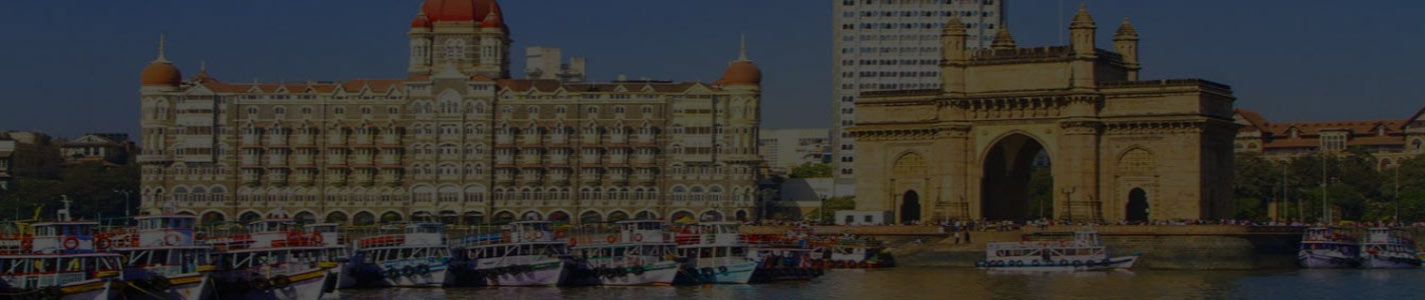
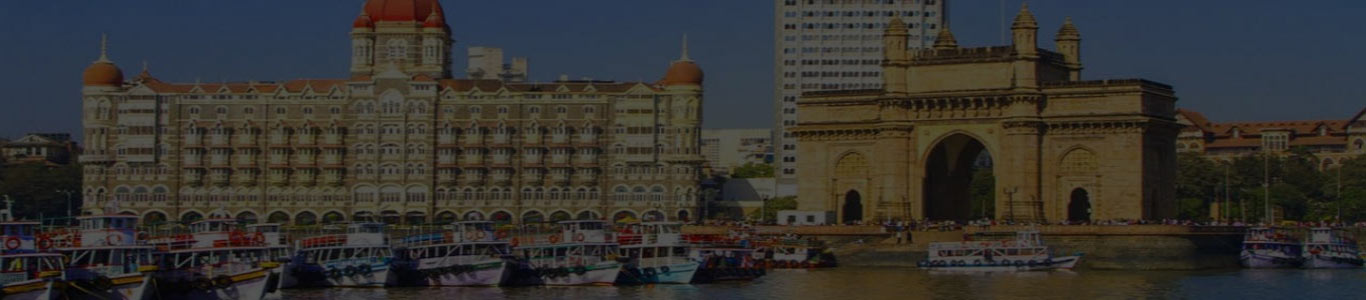
modificaciones

Changed region(s): [[0.0, 0.0, 0.9531, 1.0], [0.8917, 0.78, 0.9531, 0.87], [0.8917, 0.51, 0.9224, 0.54]]

diff --git a/Styles/style.css b/Styles/style.css
@@ -11,12 +11,12 @@ body{
     flex-direction: column;
 }
 .contenido{
-    width: 1425px;
+    width: 1366px;
 }
 
 /*--Header--------------------------------------------------------------------------------------------------------*/
 .header-index, .header-turismo, .header-info{
-    width: 1425px;
+    width: 1366px;
     height: 450px;
     background-image: url(../imagenes/portada-home.jpg);
     background-repeat: no-repeat;
@@ -29,8 +29,8 @@ body{
     flex-direction: column;
     margin-bottom: 50px;
 }
-.header-contacto{
-    width: 1425px;
+.header-contacto, .header-gracias{
+    width: 1366px;
     height: 450px;
     background-image: url(../imagenes/portada-contacto.jpg);
     background-repeat: no-repeat;
@@ -115,10 +115,10 @@ h3{
     padding-bottom: 20px;
     text-align: center;
 } */
-/* h2{
+h2{
     font-size: 25px;
     margin-top: 50px;
-} */
+}
 
 h3{
     font-size: 18px;
@@ -157,7 +157,7 @@ p{
     align-items: center;
     flex-direction: column;
     background-color: #ececec;
-    width: 1425px;
+    width: 1366px;
     border-radius: 100px;
     padding: 30px;
 }
@@ -206,7 +206,7 @@ p{
 .arte{
     background-image: url("../imagenes/arte-cultura.jpg");
     background-repeat: no-repeat;
-    width: 1425px;
+    width: 1366px;
     height: 300px;
     margin: 10px;
     border-radius: 10px;
@@ -218,7 +218,7 @@ p{
 }
 .parque-nacional{
     background-image: url("../imagenes/parques.jpg");
-    width: 1425px;
+    width: 1366px;
     height: 300px;
     margin: 10px;
     background-repeat: no-repeat;
@@ -232,7 +232,7 @@ p{
 .aire-libre{
     background-image: url("../imagenes/airelibre.jpg");
     background-repeat: no-repeat;
-    width: 1425px;
+    width: 1366px;
     height: 300px;
     margin: 10px;
     border-radius: 10px;
@@ -241,7 +241,7 @@ p{
     text-align: left;
 }
 .opiniones{
-    width: 1425px;
+    width: 1366px;
     display: flex;
     flex-direction: column;
     background-color: #ececec;
@@ -256,8 +256,8 @@ p{
 }
 .puntuaciones{
     border-right: 2px solid black;
-    width: 450px;
-    height: 225px;
+    width: 400px;
+    height: 248px;
 }
 .row{
     display: flex;
@@ -302,7 +302,7 @@ p{
     padding: 5px 0px 5px;
     font-size: 15px;
     text-align: start;
-    margin-right: -10px;
+    margin-right: -60px;
 }
 /* .servicios p:first-child, .personal p:first-child, .ubicacion p:first-child{
     padding-right: 360px;
@@ -429,7 +429,7 @@ p{
     flex-direction: column;
     margin-top: 30px;
 }
-.main-contacto h1 {
+.main-contacto h1, .gracias h1{
     font-family: 'Montserrat', sans-serif;
     font-size: 32px;
     font-weight: 700;
@@ -451,12 +451,14 @@ p{
     border-radius: 20px;
 }
 .div-contenido{
-    width: 400px;
+    background-image: url(../imagenes/amanecer.jpg); 
+    width: 320px;
+    height: 270px;
     display: flex;
     justify-content: flex-start;
     align-items: flex-start;
     flex-direction: column;
-    margin-top: 10px;
+    margin-right: 300px;
 }
 .div-contenido h2{
     font-size: 25px;
@@ -678,6 +680,7 @@ section ol li{
  
 .eventos h3, .sitios-turismo h3{
     margin-top: 10px;
+    margin-bottom: 20px;
     color: rgba(9, 9, 156, 0.836);
     font-size: 25px;
 }
@@ -802,6 +805,18 @@ section ol li{
     font-size: 20px;
 }
 
+/* GRACIAS ----------------------------------------------------------------------------------------------------------------------*/
+.gracias h1{
+    margin: 30px 0 10px -460px;
+}
+.gracias p{
+    font-family: 'Montserrat', sans-serif;
+    font-size: 18px;
+    align-items: center;
+    width: 100%;
+    margin-right: 0px;
+}
+
 /* FOOTER -----------------------------------------------------------------------------------------------------------------------*/
 footer{
     background-color: black;
@@ -822,3 +837,5 @@ footer div ul li{
     list-style: none;
     padding-left: 10px;
 }
+
+/* MOBILE ------------------------------------------------------------------------------------------------------------------------*/

diff --git a/gracias.html b/gracias.html
@@ -1,0 +1,55 @@
+<!DOCTYPE html>
+<html lang="es">
+<head>
+    <meta charset="UTF-8">
+    <meta http-equiv="X-UA-Compatible" content="IE=edge">
+    <meta name="viewport" content="width=device-width, initial-scale=1.0">
+    <link rel="stylesheet" href="Styles/style.css"
+        media="screen and (max-width: 480px)"/>/>
+    <link rel="preconnect" href="https://fonts.googleapis.com">
+    <link rel="preconnect" href="https://fonts.gstatic.com" crossorigin>
+    <link href="https://fonts.googleapis.com/css2?family=Petemoss&display=swap" rel="stylesheet">
+    <link href="https://fonts.google.com/specimen/Montserrat" rel="stylesheet">
+
+    <title>Reserva</title>
+
+</head>
+<body>
+    <header class="header-gracias">
+        <nav>
+            <ul class="navegacion">
+                <li><a href ="index.html">Inicio</a></li>
+                <li><a href ="turismo.html">Turismo</a></li>
+                <li><a href ="info.html">Información</a></li>
+                <li><a href ="contacto.html">Contacto</a></li>
+            </ul>
+        </nav>
+    </header>
+
+    <div class="gracias">
+        <h1 id="main-titulo">¡¡Gracias por tu Reserva!!</h1>
+        <p>Corroborá tu casilla de correo electrónico.<br/> En 10 minutos te llegará el cógido QR para que puedas acceder a tu tour el día de la fecha reservada.</p>
+    </div>
+
+    <h2>Recordá que nos encontrás acá:</h2>
+        <iframe class="mapa" src="https://www.google.com/maps/embed?pb=!1m18!1m12!1m3!1d10186.51822802736!2d78.03874244895978!3d27.161184535144624!2m3!1f0!2f0!3f0!3m2!1i1024!2i768!4f13.1!3m3!1m2!1s0x39743fd96899c287%3A0xcaf0de5d150bed06!2sTravel%20Bureau!5e0!3m2!1ses!2sar!4v1637258938357!5m2!1ses!2sar" width="600" height="450" style="border:0;" allowfullscreen="" loading="lazy"></iframe>
+
+    <footer>
+        <div class="nosotros">
+            <div id="lucas">
+                <p class="nombre">Lucas Barria</p>
+            </div>
+        
+            <div id="aldana">
+                <p class="nombre">Aldana Ailin Fernández Gallardo</p>
+            </div>
+        </div>
+
+        <div id="datos">
+            <p class="materia">Maquetado y Desarrollo Web</p>
+            <p class="docente">Mabel García</p>
+            <p class="sitio">Este sitio es una entrega para el TP del primer cuatrimestre 2021 de la Escuela Da Vinci</p>
+        </div>
+    </footer>
+</body>
+</html>

diff --git a/contacto.html b/contacto.html
@@ -26,13 +26,11 @@
         <div class="contenido">  
             <main class="main-contacto">
                 <div>
-                    <h1 id= "main-titulo">Tours más visitados</h1>
+                    <h1>Tours más visitados</h1>
                     <div class="tarjetas-contacto">
                         <div class="div-contenido">
-                             <img src="imagenes/amanecer.jpg" alt="Taj Mahal en pleno Atardecer"/> <!--NO ME TOMA FOTO-->
-                            <h2>Ver el amanecer o puesta de sol en el Taj Mahal</h2>
-                            <p>Desde: Agra, Uttar Pradesh 282001, India<br/>Salida: Todos los días excepto viernes.</p>  
-                            <img src="imagenes/reloj.jpg" alt="Reloj"/><p><span class="siete">7 hrs</span><br/>Ver el Taj Mahal de una forma diferente es una de las mejores cosas que hacer en India.</p>                        
+                            <h2>City Tour por Agra</h2>
+                            <p>Ubicación: Agra, Uttar Pradesh 282001, India.<br/>Salida: Todos los días excepto viernes.<br/>Te recogeremos del hotel y te llevaremos a Agra, recorremos sus mejores mercados y el famoso Taj Mahal</p>
                         </div>
                         <div class="div-gris">
                             <p>$8.160 ARS</p>
@@ -42,7 +40,7 @@
                 </div>
 
 
-                <form id="form" action="http://recursos.grodriguez.com.ar/FORM/" method="post" enctype="multipart/form-data">
+                <form id="form" action="gracias.html" method="post" enctype="multipart/form-data">
                 <div class="form">
                     <div class="nombre">
                         <label for="nombre">Nombre:*</label>
@@ -96,7 +94,7 @@
 
                     <div class="contenedorfecha">
                         <label for="fecha">Ingrese el día*</label>
-                        <input type="date" name="fecha" min="2021-12-10" max="2023-11-30" id="fecha" required/>
+                        <input type="date" name="fecha" min="2021-12-21" max="2023-11-30" id="fecha" required/>
                     </div>
 
                     <div class="contenedorhorario">

diff --git a/info.html b/info.html
@@ -28,7 +28,7 @@
             <main class="main-info">
                 <h1>Eventos y Festividades de India</h1>
 
-                <h2>El mejor momento para viajar a la India es, sin duda, durante alguna de sus festividades. En este apartado te comentamos el significado y cómo se celebran algunas festividades de la India.</h2>
+                <h2>El mejor momento para viajar a la India es, sin duda, durante alguna de sus festividades. En este apartado te comentamos el significado y cómo se celebran en este hermoso y curioso país.</h2>
 
                 <ol class="ol-info">
                     <li>
